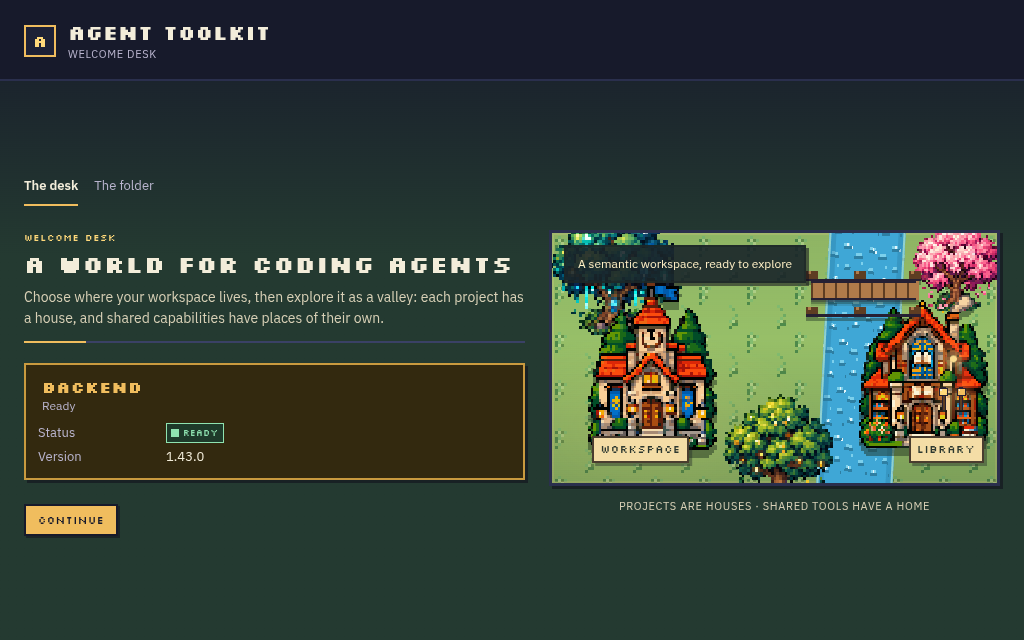
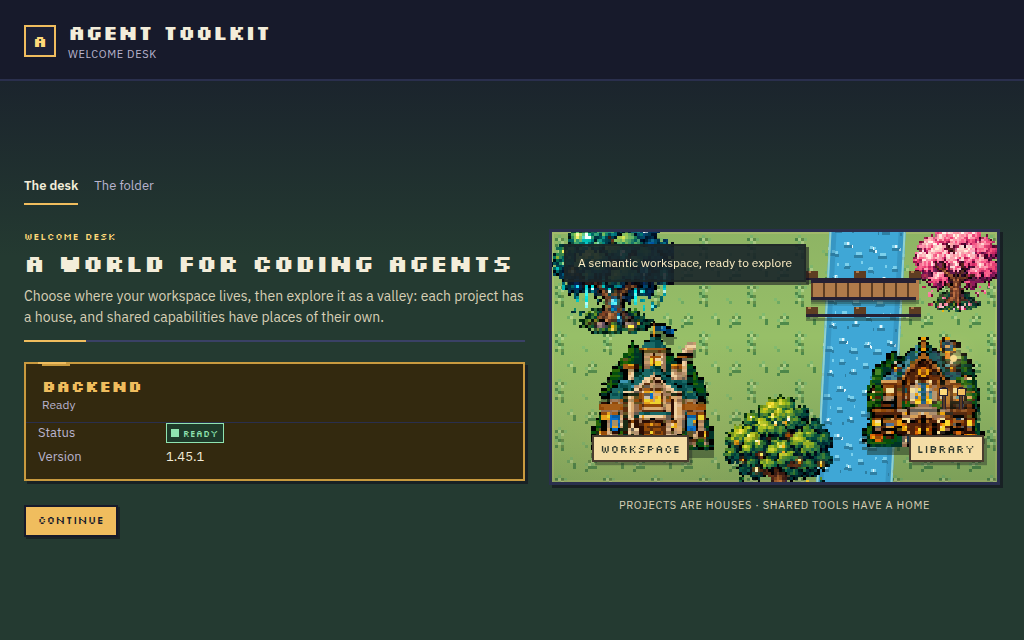
docs: refresh v1.45.1 onboarding screenshots

diff --git a/docs/desktop/VISUAL_QA_HISTORY.md b/docs/desktop/VISUAL_QA_HISTORY.md
@@ -17,9 +17,9 @@ move, the framed project room, an offline configured Person, the Library,
 Operations, a live PTY, and the reviewed Munder import. The screenshots report
 `agent-toolkit 1.45.1`, matching the current package. The clean review workspace
 has no linked projects and no Toolkit capability receipts, so the People and
-Library captures display those truthful empty/configured states. The capture
-tour did not include onboarding; the two onboarding images remain from their
-previous dedicated review and are not represented as v1.45.1 captures.
+Library captures display those truthful empty/configured states. The initial
+gallery capture did not include onboarding; the follow-up review below refreshed
+those two screens from the same product version.
 
 Opened and reviewed: [Meadow world](../../static/screenshots/world.png),
 [Dusk world](../../static/screenshots/world-dusk.png),
@@ -36,6 +36,28 @@ updated the current [visual acceptance guide](VISUAL_QA.md). The world remains
 readable and colorful, but broad open grass and straight path segments remain
 visible; the Library is dense and clearly reports its unconfigured state. This
 refresh updates evidence, not the underlying art or application behavior.
+
+## First-run onboarding screenshot refresh — 2026-10-17
+
+The workflow was extended in [PR #1568](https://github.com/ulises-jeremias/agent-toolkit/pull/1568)
+to capture Electron onboarding only when the visual-review dispatch is
+explicitly selected. The follow-up [CI run 38988906142](https://github.com/ulises-jeremias/agent-toolkit/actions/runs/38988906142)
+used the current 1.45.1 backend in disposable workspaces, verified the expected
+captures, and included them in the downloadable review artifact. No local
+Desktop session or workspace was touched.
+
+I opened the full-size welcome, compact welcome, and existing-workspace folder
+review. The full and compact welcome both show backend `1.45.1`, a clear
+semantic valley preview, and the Continue action without clipping. The folder
+screen truthfully shows that the temporary workspace already exists and that
+entering it will not copy or overwrite files. I replaced only the two README
+onboarding images with the current welcome captures; the folder-review capture
+remains available in the CI artifact rather than expanding the static gallery.
+
+Opened evidence: [welcome, large](../../static/screenshots/onboarding.png),
+[welcome, compact](../../static/screenshots/onboarding-compact.png). The
+existing-workspace folder review is retained in the review artifact for [CI
+run 38988906142](https://github.com/ulises-jeremias/agent-toolkit/actions/runs/38988906142).
 
 ## Project-room scale and framing — 2026-10-16
 

diff --git a/docs/desktop/VISUAL_QA.md b/docs/desktop/VISUAL_QA.md
@@ -13,6 +13,9 @@ Actions review [run 38984234510](https://github.com/ulises-jeremias/agent-toolki
 passed and generated the images; no local Desktop session or workspace was
 used. I opened and reviewed the refreshed world, Dusk, project room, walking
 world, People, Library, Operations, Terminal, and Munder import screenshots.
+The first-run screens were captured from the same 1.45.1 package in the
+follow-up isolated [run 38988906142](https://github.com/ulises-jeremias/agent-toolkit/actions/runs/38988906142)
+at `main` source `4088c9f`, after adding onboarding to the capture workflow.
 
 The valley shows the real 14-place workspace and human player; the project
 room is framed and larger; People shows Lina as configured but offline; and
@@ -21,9 +24,7 @@ workspace has no linked projects or installed Library receipts, so those
 screenshots intentionally show the corresponding empty states. The map still
 has broad grass areas and orthogonal paths, and the Library remains a dense
 professional inspector; these images are current evidence, not a claim that
-those art and layout concerns are resolved. First-run onboarding images remain
-from the earlier reviewed onboarding run because this capture tour did not
-exercise onboarding.
+those art and layout concerns are resolved.
 
 The opened gallery includes [Meadow world](../../static/screenshots/world.png),
 [Dusk world](../../static/screenshots/world-dusk.png),
@@ -33,7 +34,10 @@ The opened gallery includes [Meadow world](../../static/screenshots/world.png),
 [Library](../../static/screenshots/library.png),
 [Operations](../../static/screenshots/operations.png),
 [Terminal](../../static/screenshots/terminal.png), and
-[Munder import review](../../static/screenshots/people-import.png).
+[Munder import review](../../static/screenshots/people-import.png). The
+[first-run welcome](../../static/screenshots/onboarding.png) and
+[compact welcome](../../static/screenshots/onboarding-compact.png) are also
+current 1.45.1 Electron captures.
 
 ## Project-room scale and framing — 2026-10-16
 
